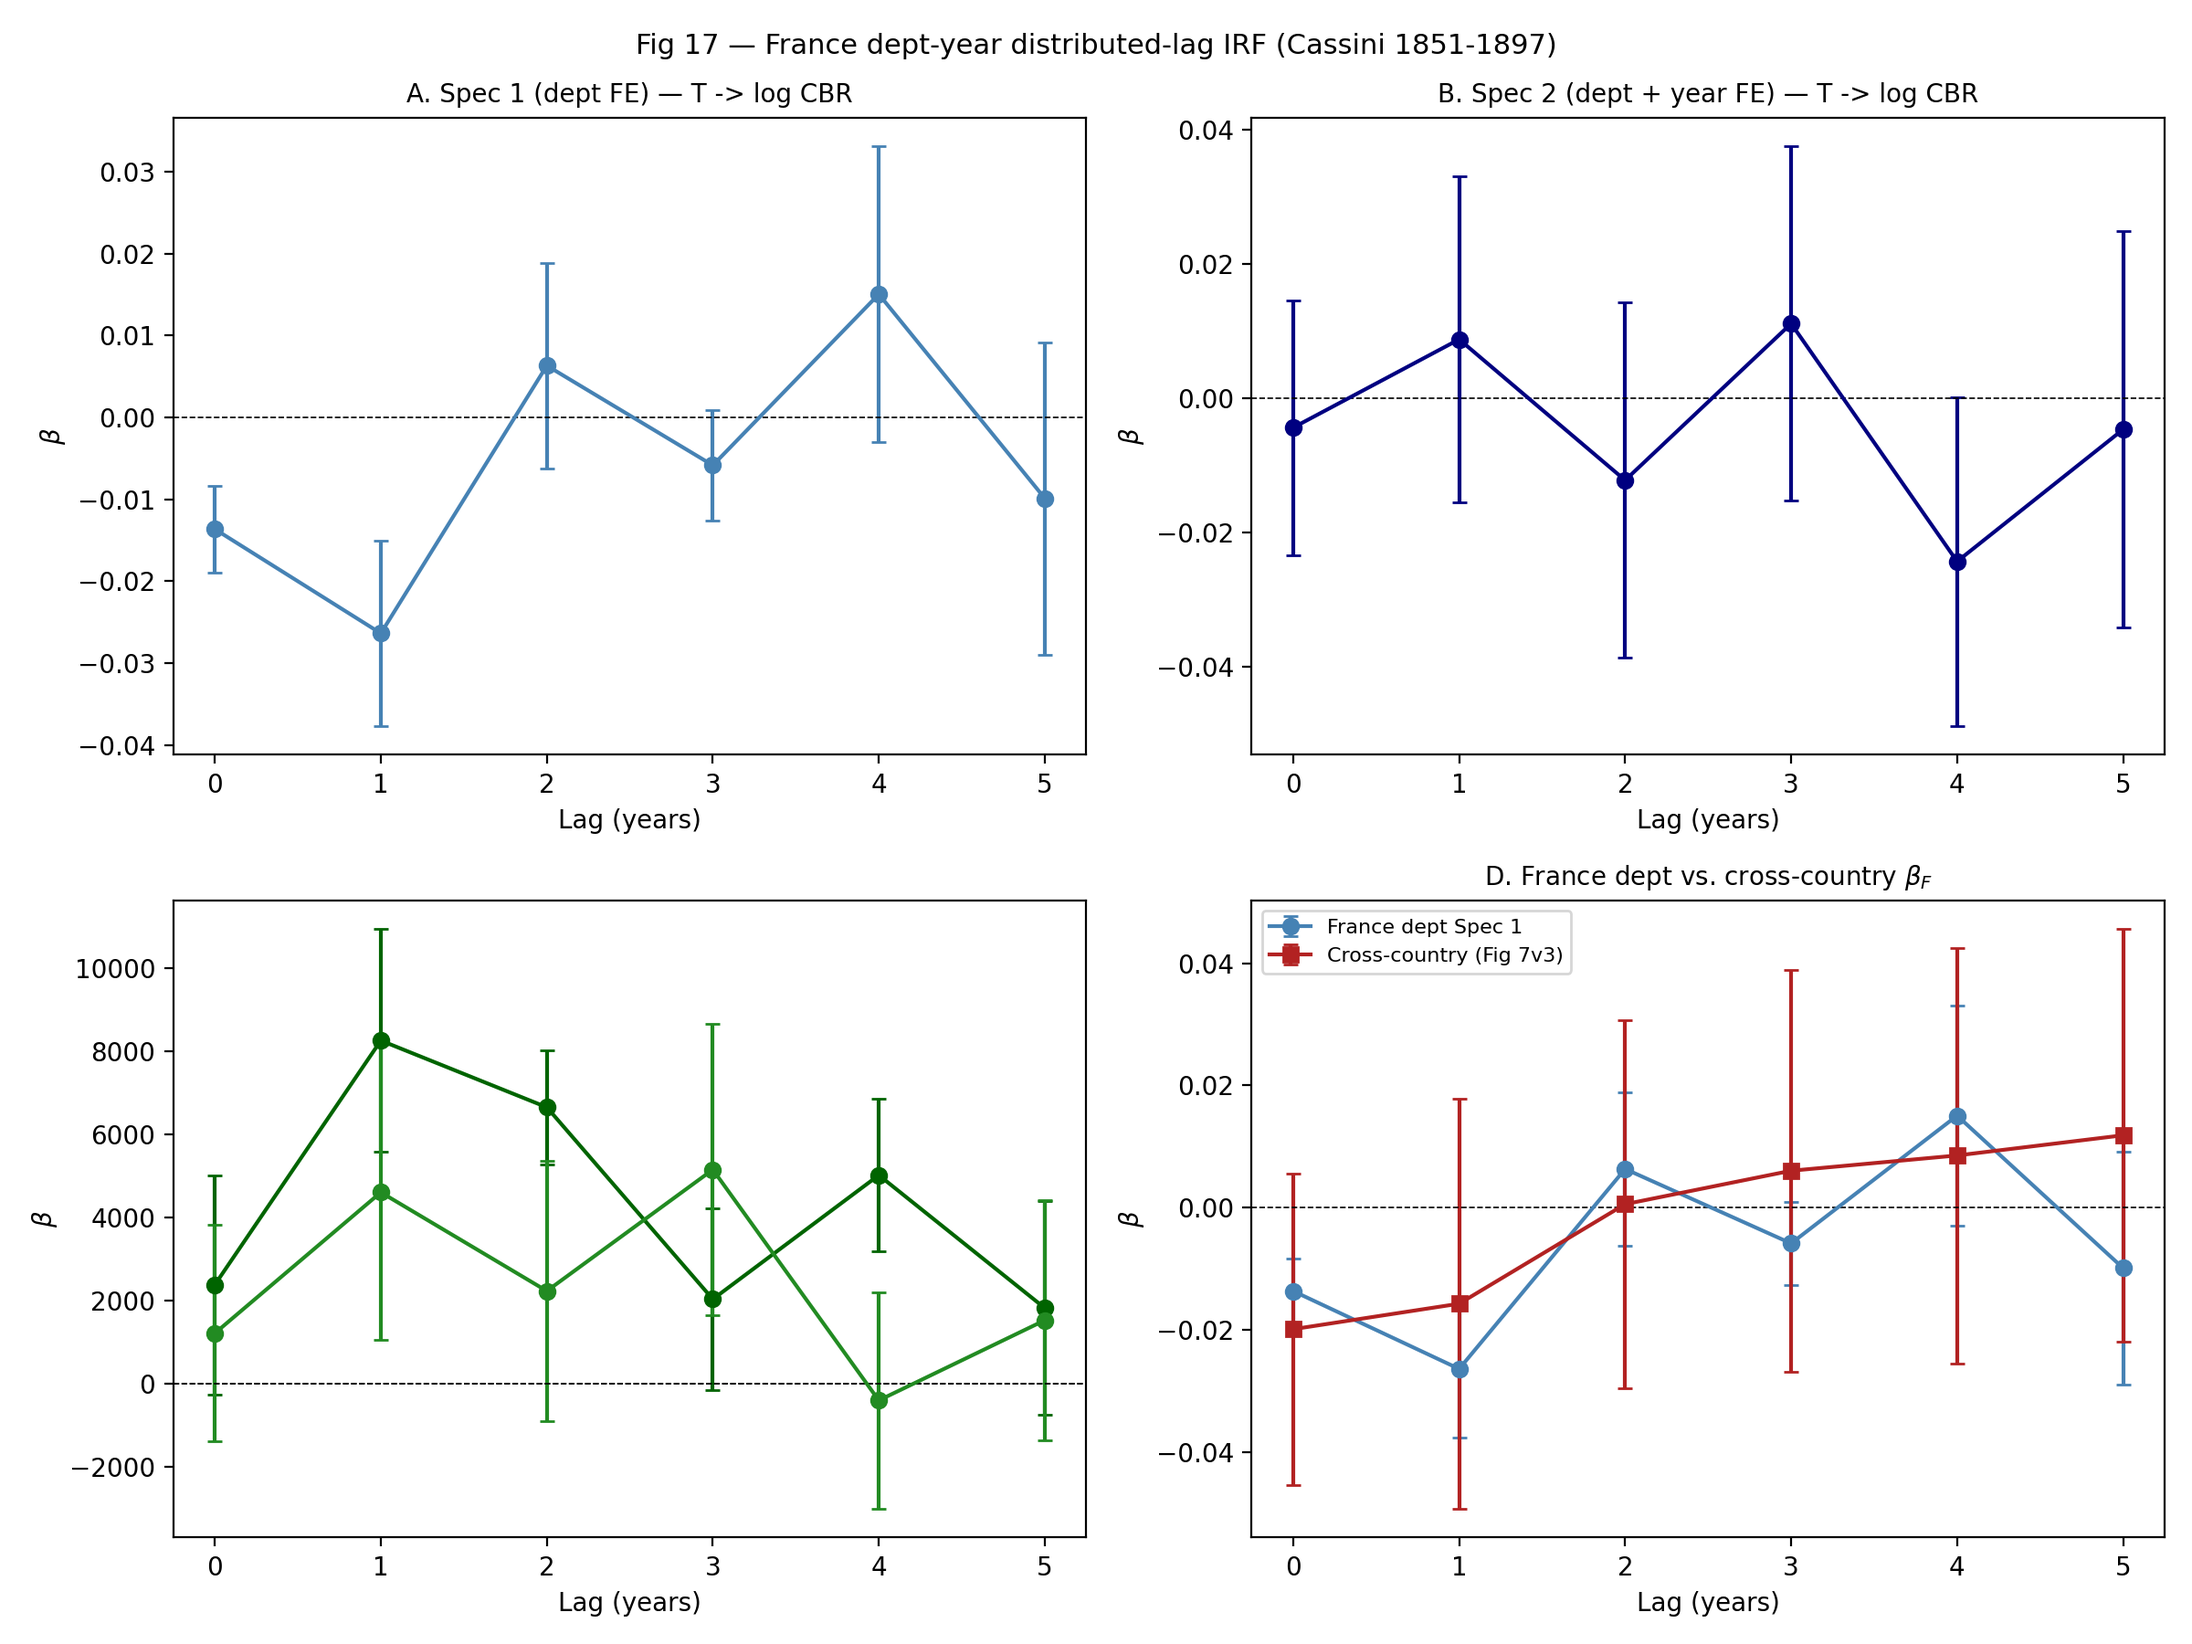
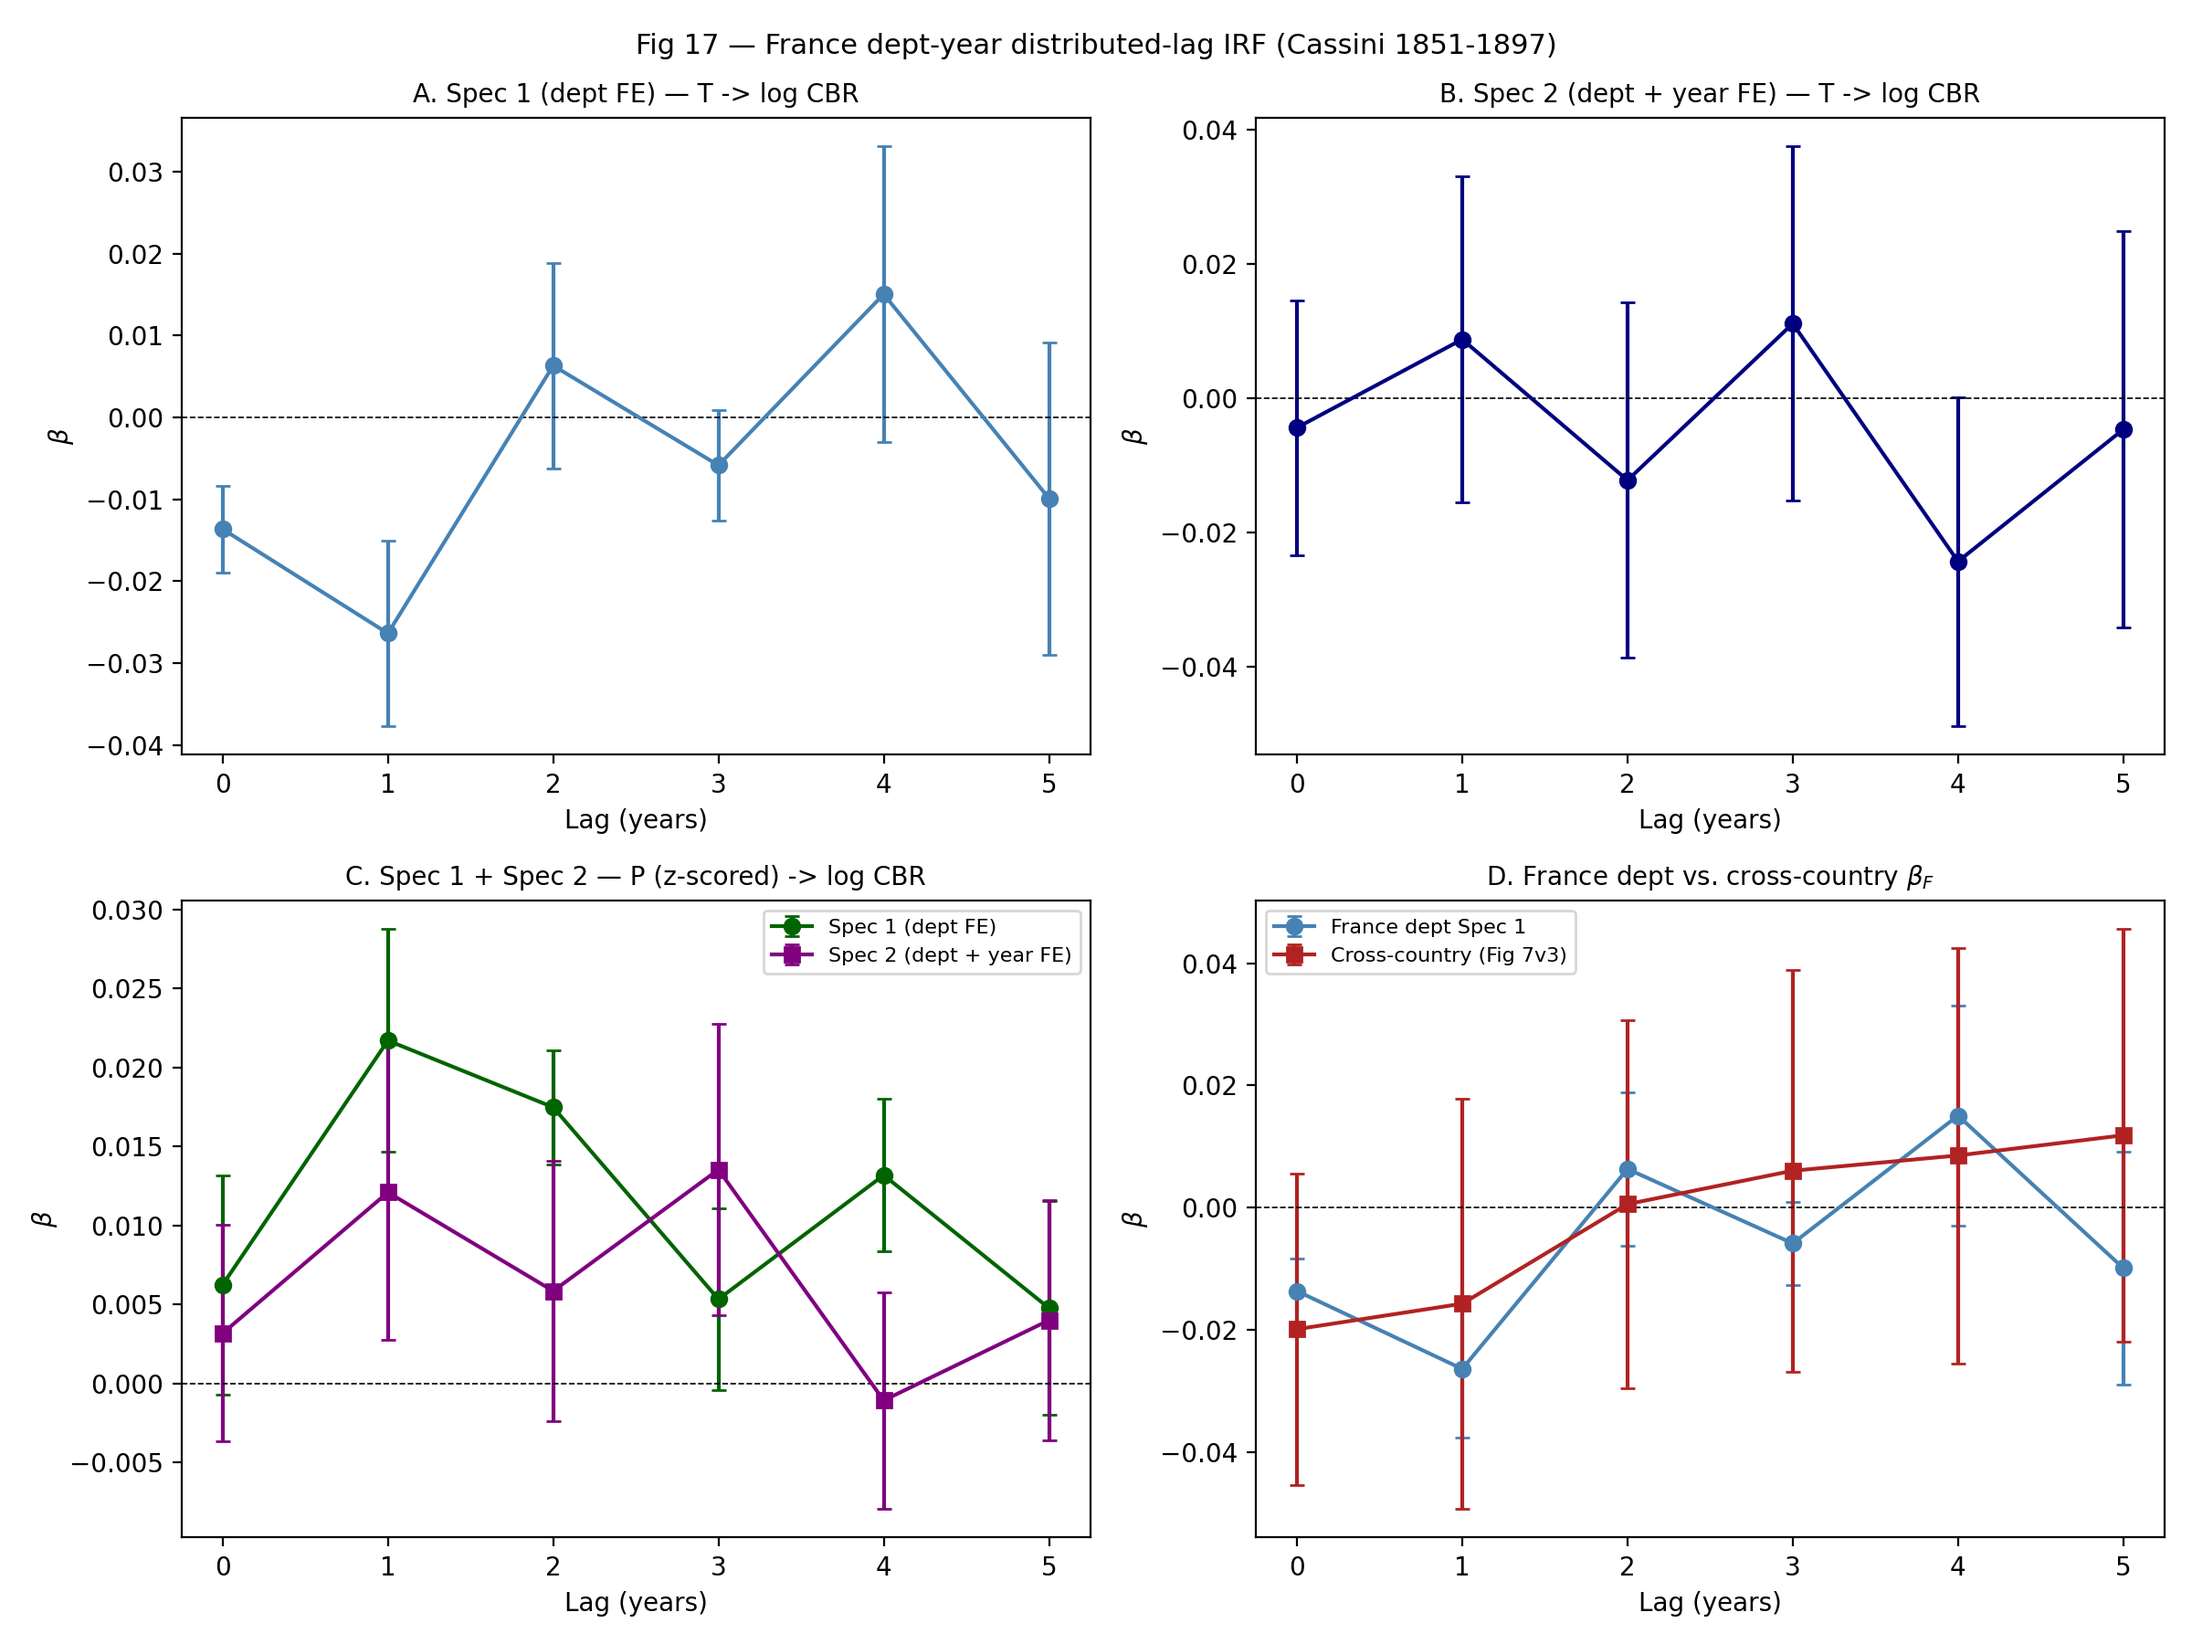
long_shadow_fertility/phase7 [B2]: fix Fig 17 Panel C — z-score precip, distinct colors + legend

diff --git a/analysis/paper4_shadow/long_shadow_fertility/figures/fig17_france_dept_dl_irf.py b/analysis/paper4_shadow/long_shadow_fertility/figures/fig17_france_dept_dl_irf.py
@@ -41,11 +41,12 @@ def _lag_irf(df, x, controls, year_fe):
 def make_fig17():
     panel = build_france_dept_annual()
     sub = panel.dropna(subset=["log_cbr", "t_growing", "p_growing"]).copy()
+    sub["p_growing_z"] = (sub["p_growing"] - sub["p_growing"].mean()) / sub["p_growing"].std()
 
-    spec1_t = _lag_irf(sub, x="t_growing", controls=["p_growing"], year_fe=False)
-    spec2_t = _lag_irf(sub, x="t_growing", controls=["p_growing"], year_fe=True)
-    spec1_p = _lag_irf(sub, x="p_growing", controls=["t_growing"], year_fe=False)
-    spec2_p = _lag_irf(sub, x="p_growing", controls=["t_growing"], year_fe=True)
+    spec1_t = _lag_irf(sub, x="t_growing", controls=["p_growing_z"], year_fe=False)
+    spec2_t = _lag_irf(sub, x="t_growing", controls=["p_growing_z"], year_fe=True)
+    spec1_p = _lag_irf(sub, x="p_growing_z", controls=["t_growing"], year_fe=False)
+    spec2_p = _lag_irf(sub, x="p_growing_z", controls=["t_growing"], year_fe=True)
 
     # Cross-country beta_F via Fig 7v3 pipeline (recomputed on the fly)
     pooled = assemble_panel_multi()
@@ -72,9 +73,18 @@ def make_fig17():
             "A. Spec 1 (dept FE) — T -> log CBR", color="steelblue")
     _panel(axes[0, 1], spec2_t,
             "B. Spec 2 (dept + year FE) — T -> log CBR", color="navy")
-    _panel(axes[1, 0], spec1_p,
-            "C. Spec 1+2 — P -> log CBR (precip)", color="darkgreen")
-    _panel(axes[1, 0], spec2_p, "", color="forestgreen")
+
+    # Panel C — precip IRFs, both specs, distinct colors + legend
+    ax = axes[1, 0]
+    ax.errorbar(spec1_p["lag"], spec1_p["beta"], yerr=1.96 * spec1_p["se"],
+                fmt="o-", color="darkgreen", capsize=3, label="Spec 1 (dept FE)")
+    ax.errorbar(spec2_p["lag"], spec2_p["beta"], yerr=1.96 * spec2_p["se"],
+                fmt="s-", color="purple", capsize=3, label="Spec 2 (dept + year FE)")
+    ax.axhline(0, color="black", lw=0.6, ls="--")
+    ax.legend(fontsize=8)
+    ax.set_xlabel("Lag (years)")
+    ax.set_ylabel(r"$\beta$")
+    ax.set_title("C. Spec 1 + Spec 2 — P (z-scored) -> log CBR", fontsize=10)
 
     # Panel D — overlay
     ax = axes[1, 1]
